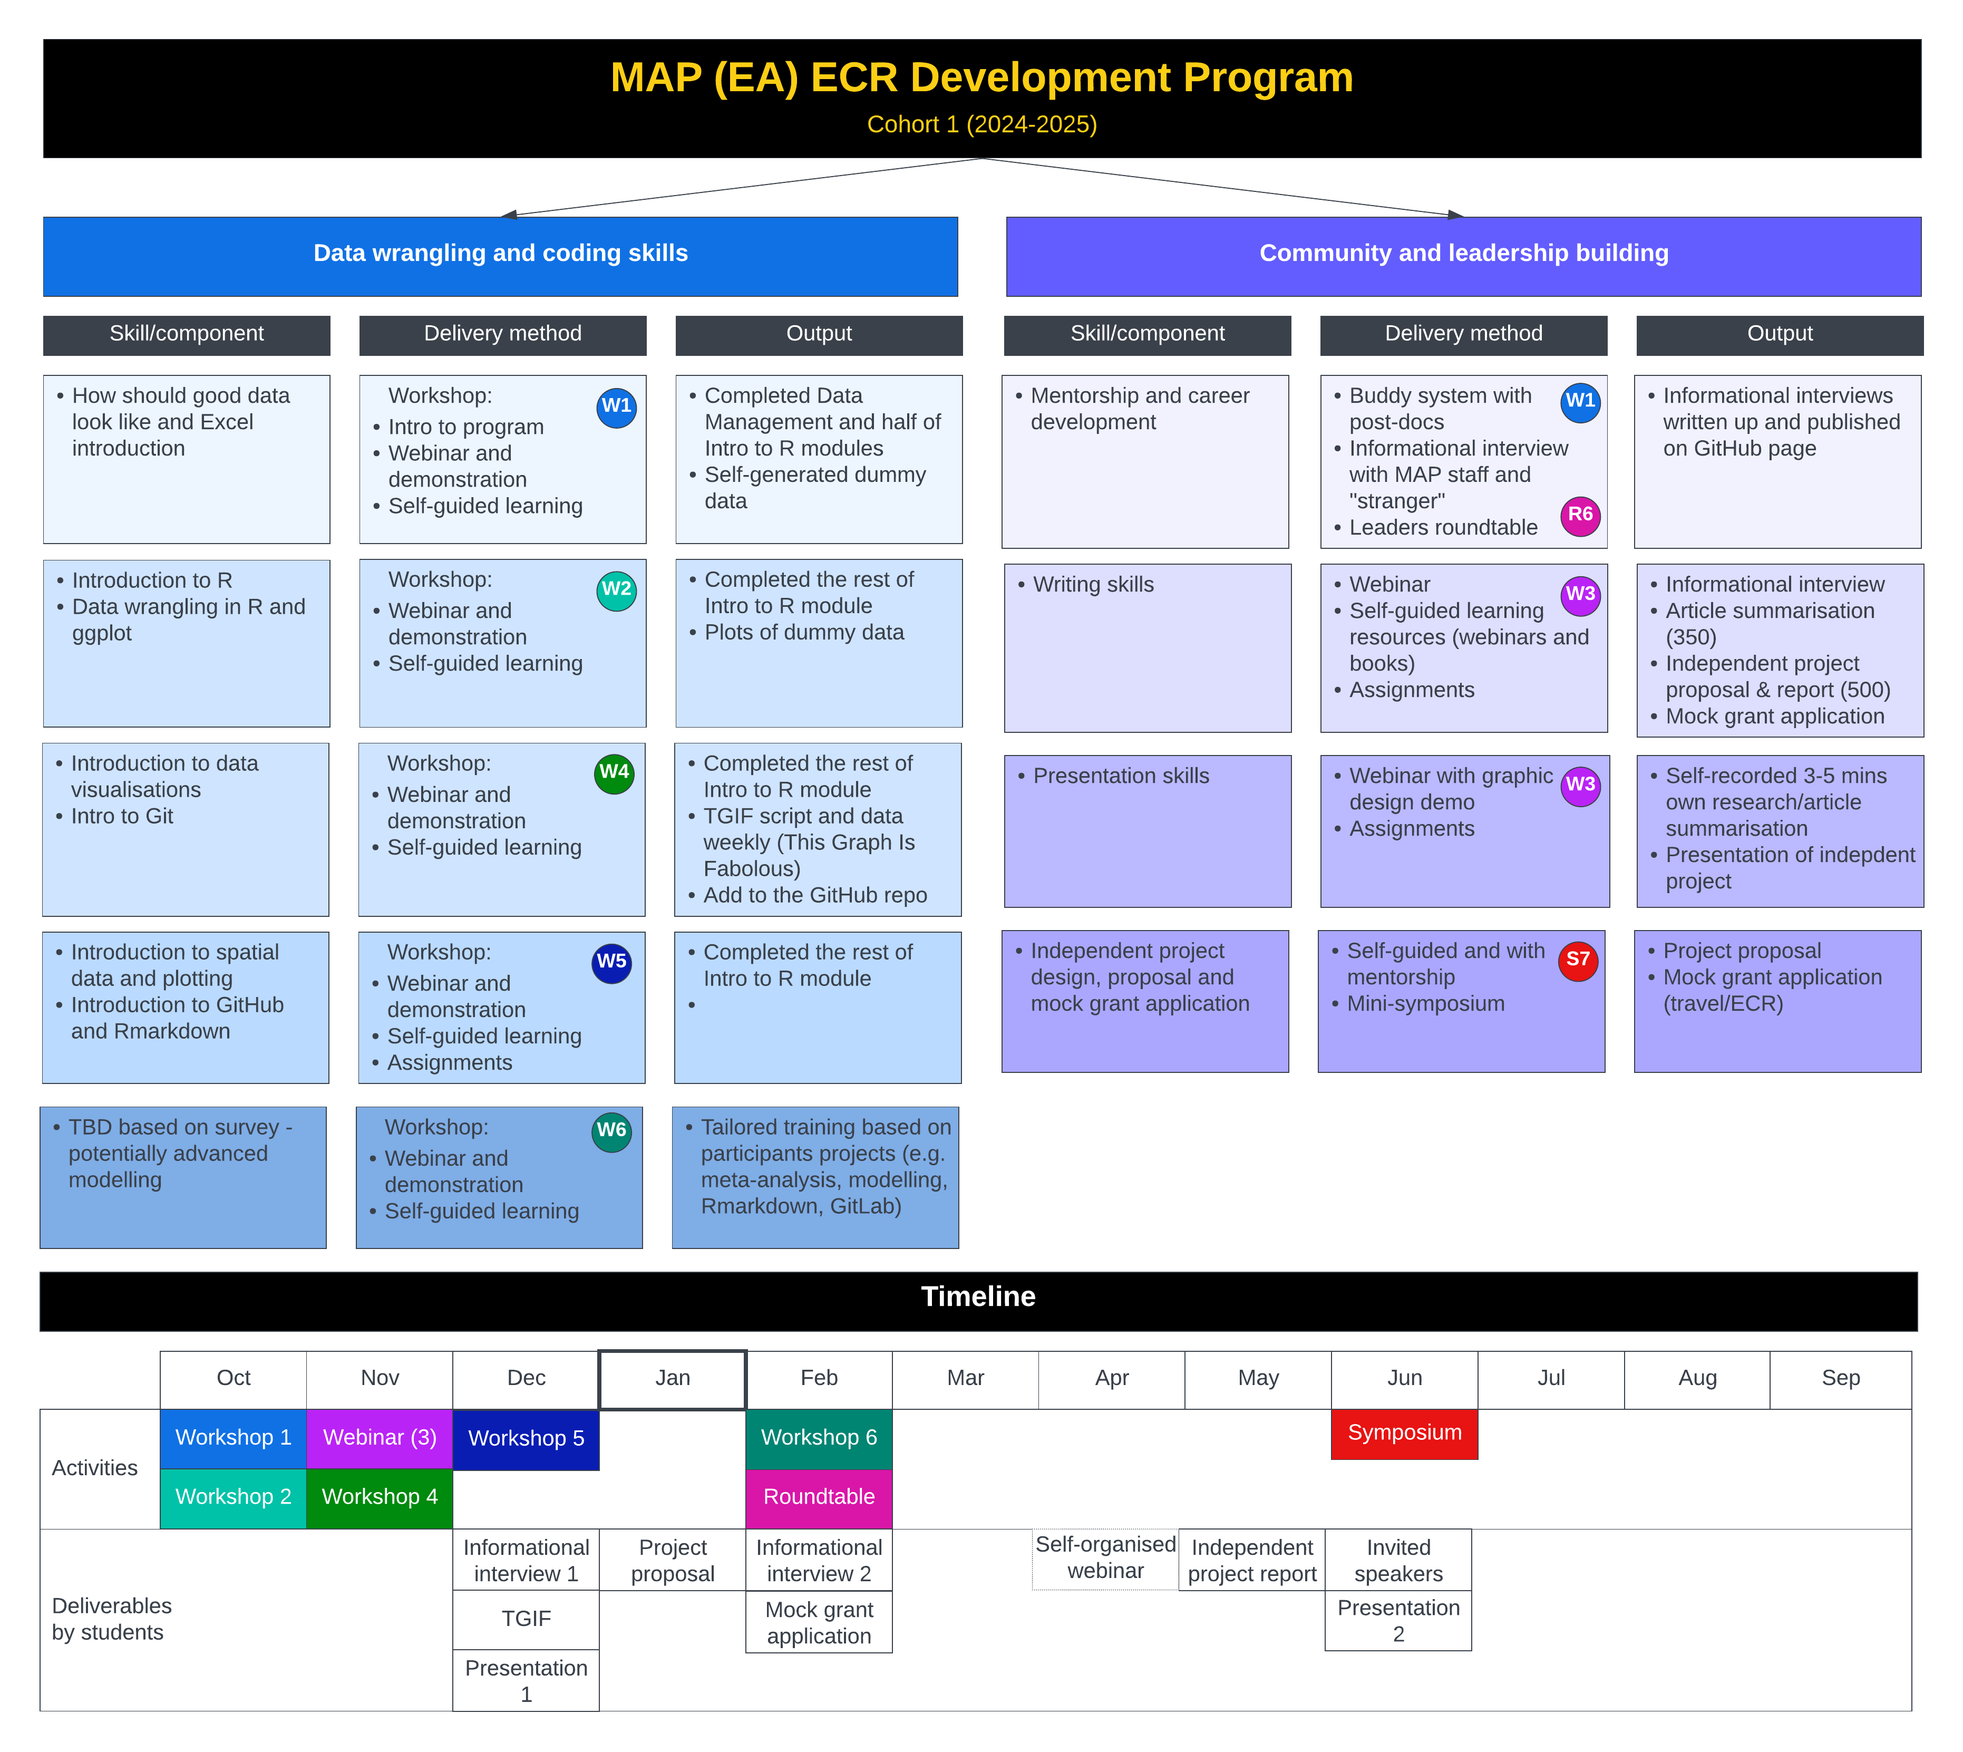
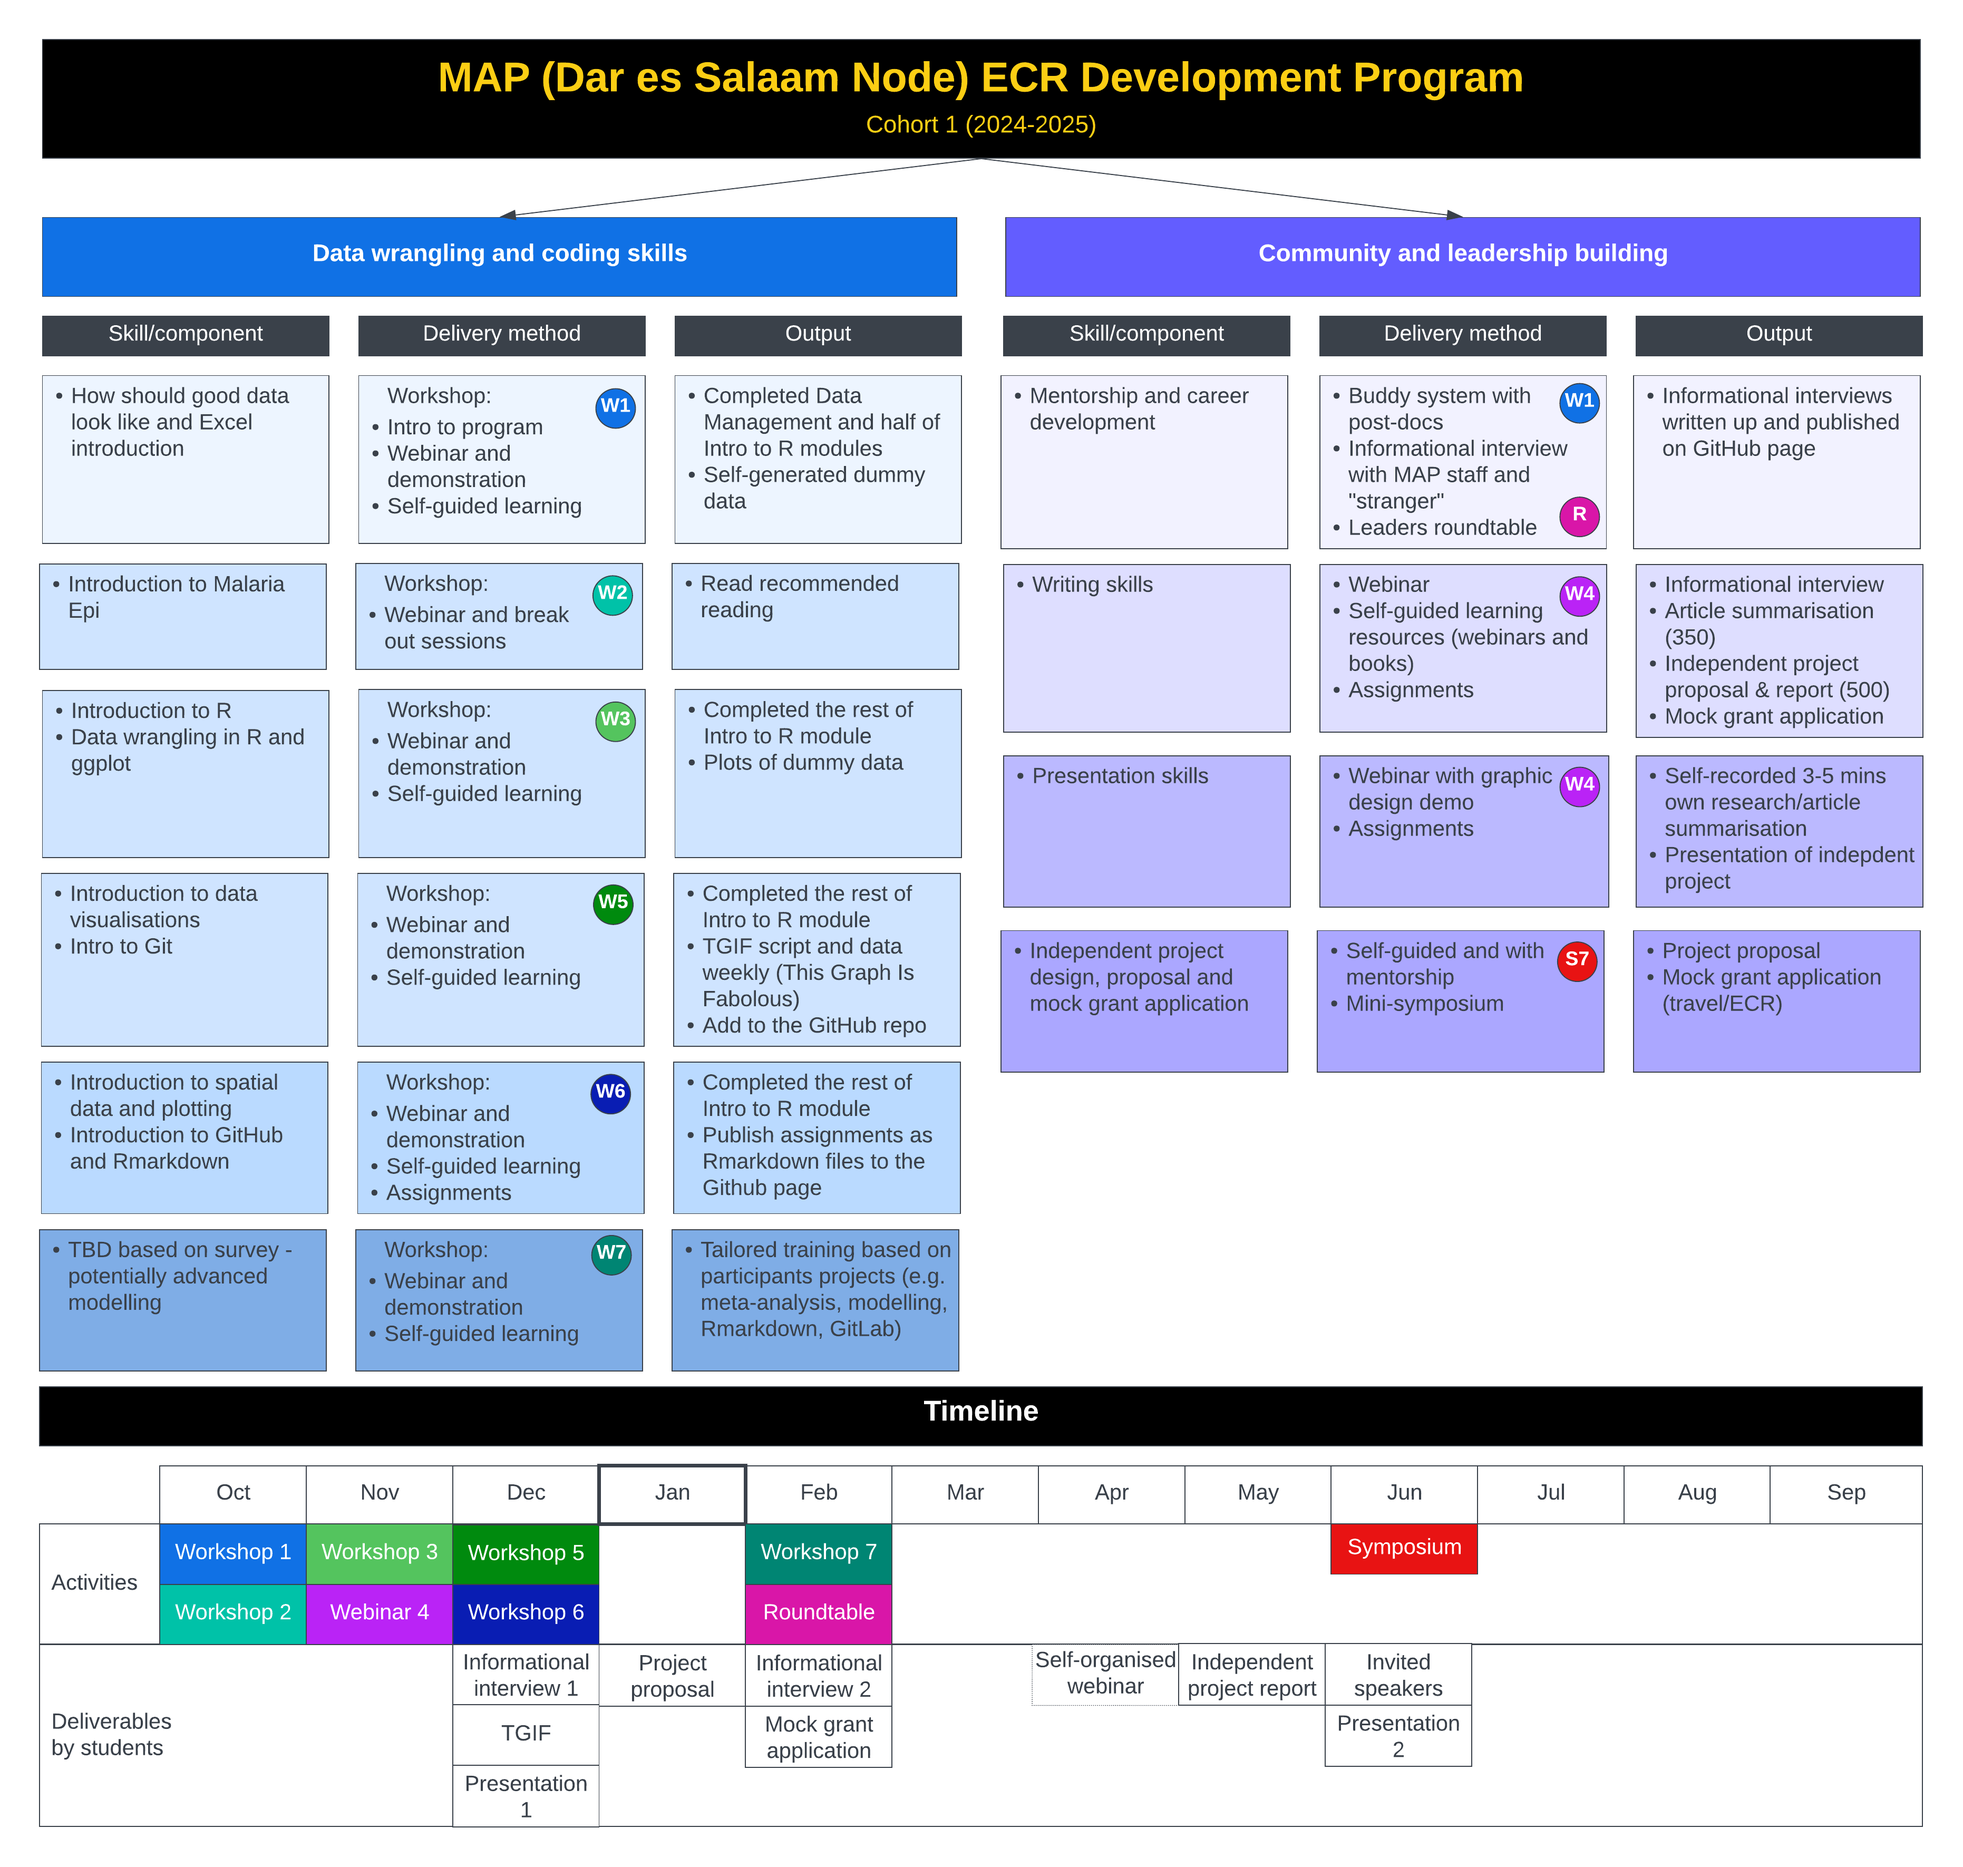
Updated_fig

Changed region(s): [[0.0, 0.031, 0.9968, 0.9609]]

diff --git a/README.md b/README.md
@@ -1,6 +1,6 @@
 This repo is currently under construction!\
 \
-Welcome to MAP-East Africa node ECR training program for Cohort 1 (2024-2025)! 😊\
+Welcome to MAP's Dar es Salaam node's ECR training program for Cohort 1 (2024-2025)! 😊\
 \
 This program builds on MAP's "[Introduction of Spatial Analysis for Infectious diseases tutorial](https://malaria-atlas-project.gitlab.io/intro-to-spatial-analysis-for-infectious-diseases/index.html)" material.
 
@@ -8,6 +8,6 @@ The course has been re-arranged and updated according to a new delivery method (
 
 The aim of the data tutorials is to teach basic concepts, skills and tools for working with data so that you can get more done in less time, and with less pain. The lessons here focus mainly on the use of R and QGIS.\
 \
-![MAP EA ECR Training](images/MAP_ECR_Program.png)
+![MAP ECR Training Program outline](images/MAP_ECR_Program.png)
 
 This repo consists of webpage elements in html and also R tutorial material.
